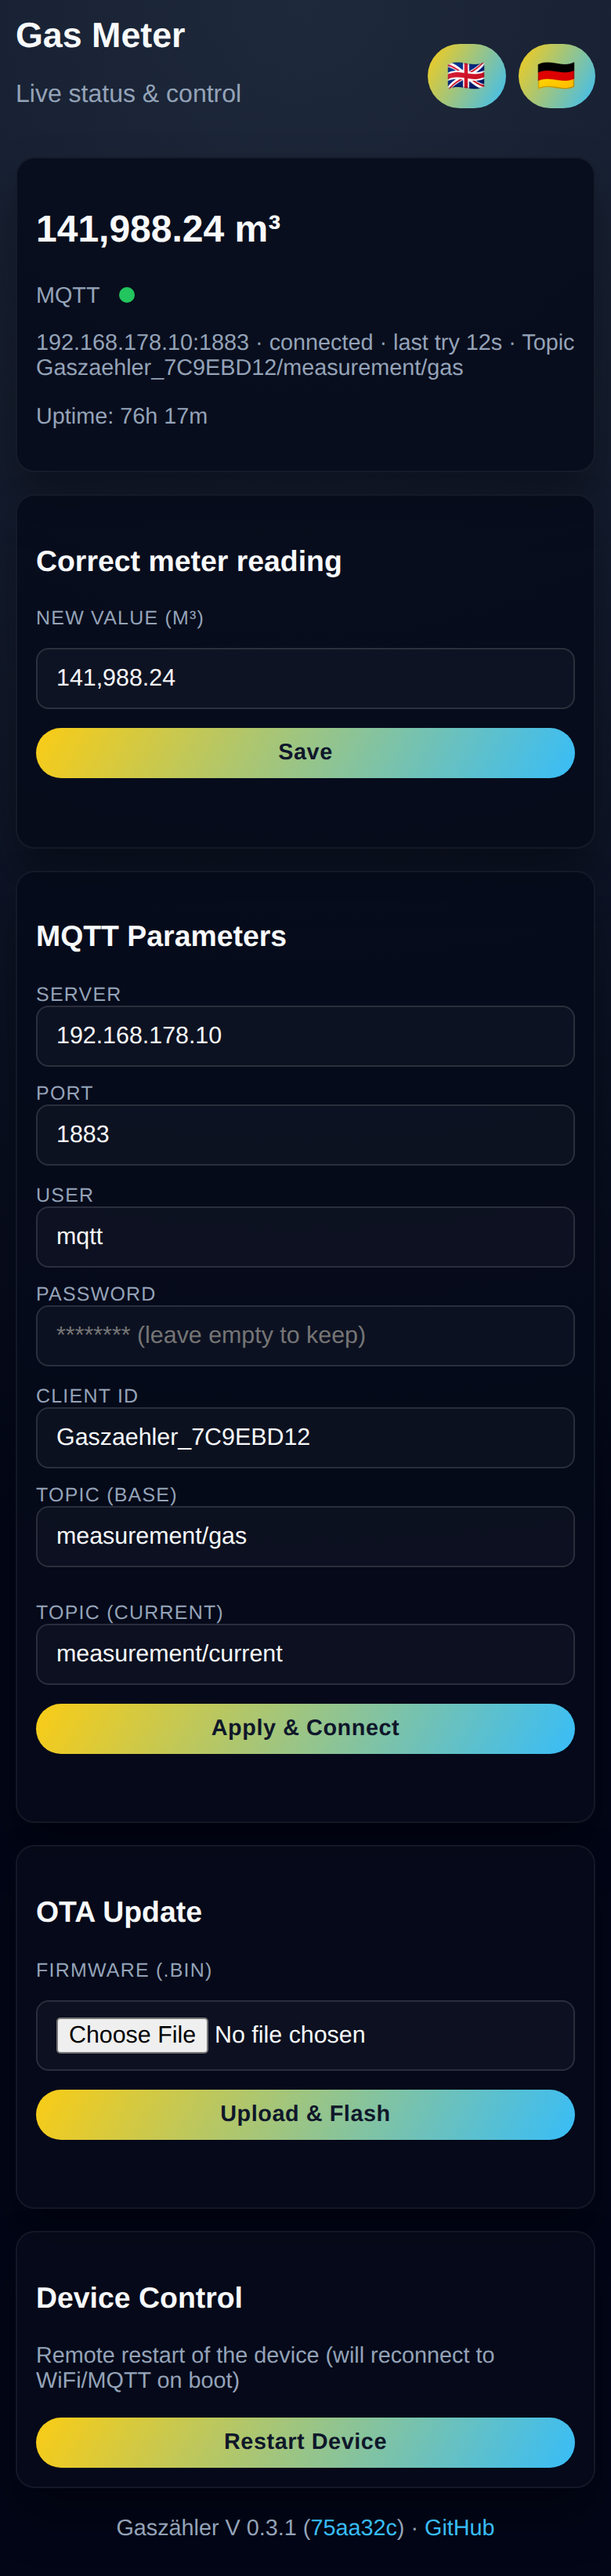
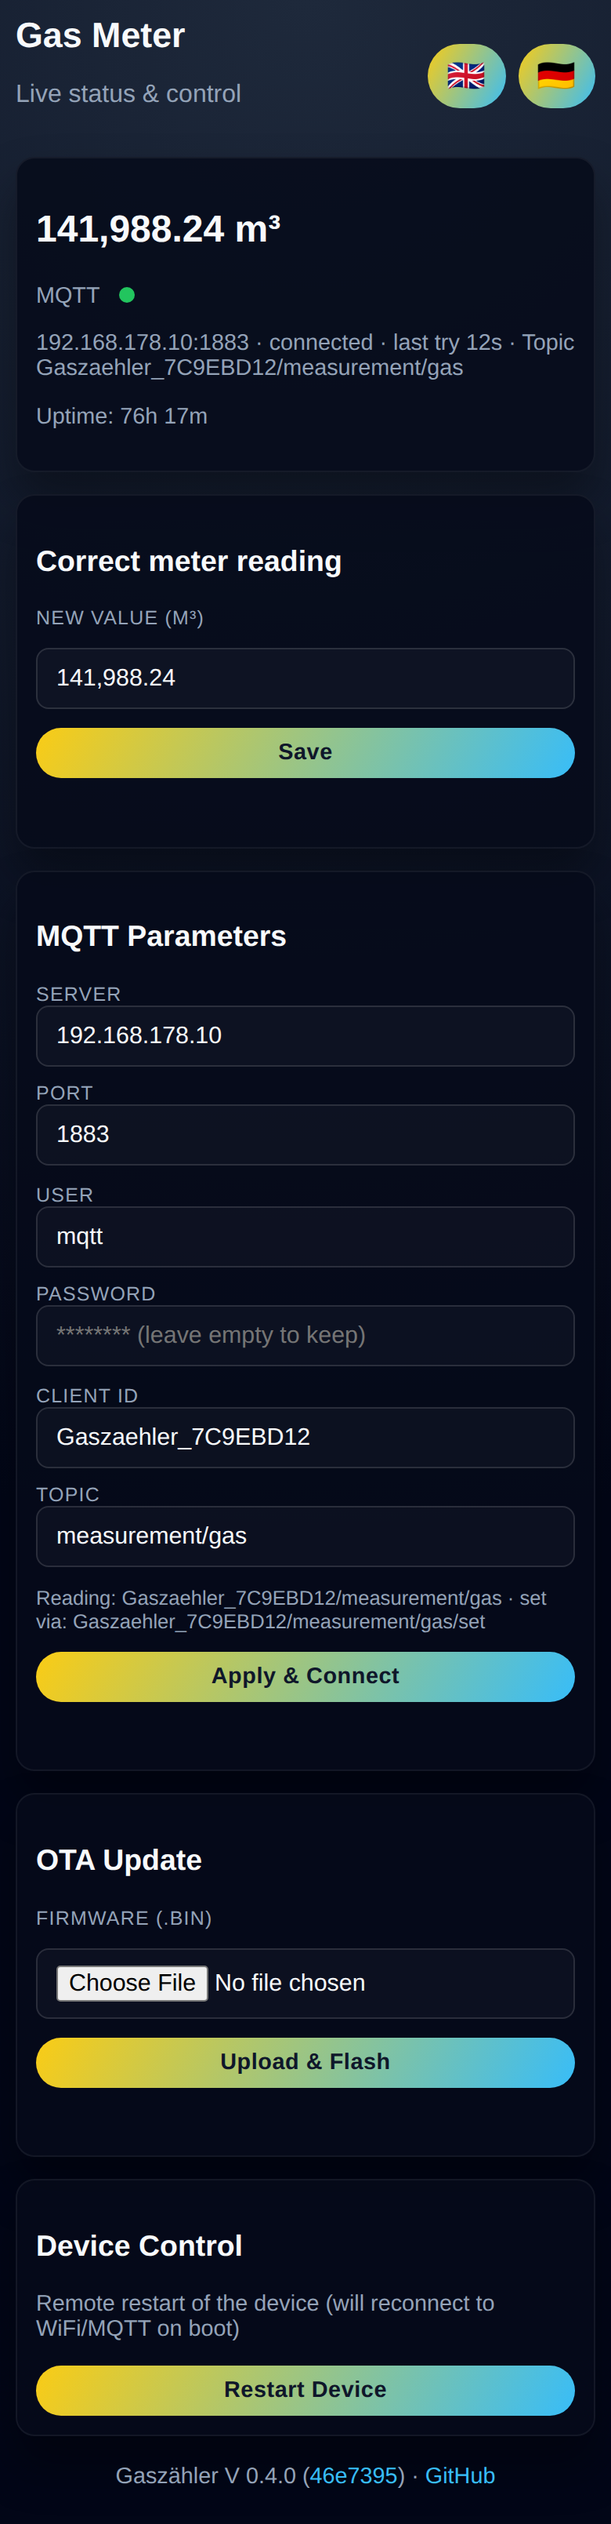
Consistent MQTT topics: reading on <id>/<topic>, set via <id>/<topic>/set
- the set topic is derived from the reading topic; the separate 'topic (current)'
  setting is removed from settings, web UI and API
- HA number entity uses the new set topic via discovery
- changing client ID or topic deletes the retained messages of the old topics
- version 0.4.0 (breaking for manual publishers to the old correction topic)

diff --git a/web/index.html b/web/index.html
@@ -52,6 +52,7 @@ main {
 }
 .status-dot.online { background:#22c55e; }
 .muted { color:var(--muted); font-size:0.9rem; }
+.topic-hint { margin:0; font-size:0.8rem; overflow-wrap:anywhere; }
 footer { text-align:center; padding:4px 0 12px; }
 footer a { color:var(--accent-2); text-decoration:none; }
 footer a:hover { text-decoration:underline; }
@@ -166,17 +167,11 @@ input, select, textarea { width: 100%; box-sizing: border-box; }
                     <input type="text" id="mqtt-clientid" name="clientid">
                 </div>
                 <div>
-                    <label for="mqtt-topic" id="lbl-topic" data-i18n="topicBase">Topic (base)</label>
-                    <input type="text" id="mqtt-topic" name="topic" placeholder="measurement/gas">
+                    <label for="mqtt-topic" id="lbl-topic" data-i18n="topic">Topic</label>
+                    <input type="text" id="mqtt-topic" name="topic" placeholder="measurement/gas" aria-describedby="topic-hint">
                 </div>
             </div>
-            <div class="grid-two">
-                <div></div>
-                <div>
-                    <label for="mqtt-topic-current" id="lbl-topic-current" data-i18n="topicCurrent">Topic (current)</label>
-                    <input type="text" id="mqtt-topic-current" name="topic_current" placeholder="measurement/current">
-                </div>
-            </div>
+            <p class="muted topic-hint" id="topic-hint"></p>
             <button type="submit" id="btn-apply" data-i18n="apply">Apply & Connect</button>
             <span class="feedback" id="mqtt-feedback"></span>
         </form>
@@ -267,7 +262,8 @@ async function refreshStatus() {
         // Client ID and topic base
         if (document.activeElement !== mqttForm.clientid) mqttForm.clientid.value = data.clientID || '';
         if (document.activeElement !== mqttForm.topic) mqttForm.topic.value = data.mqttTopicBase || '';
-        if (document.activeElement !== mqttForm.topic_current) mqttForm.topic_current.value = data.mqttTopicCurrentBase || '';
+        document.getElementById('topic-hint').textContent = data.mqttTopicGas
+            ? `${t('topicHintState')}: ${data.mqttTopicGas} · ${t('topicHintSet')}: ${data.mqttTopicSet}` : '';
     } catch (error) {
         mqttInfo.textContent = t('statusUnavailable');
     }
@@ -327,8 +323,9 @@ const translations = {
         restart: 'Restart Device',
         user: 'User',
         password: 'Password',
-        topicBase: 'Topic (base)',
-        topicCurrent: 'Topic (current)'
+        topic: 'Topic',
+        topicHintState: 'Reading',
+        topicHintSet: 'set via'
     },
     de: {
         consuming: 'Wird übertragen...',
@@ -363,8 +360,9 @@ const translations = {
         restart: 'Neustart',
         user: 'Benutzer',
         password: 'Passwort',
-        topicBase: 'Topic (Basis)',
-        topicCurrent: 'Topic (Korrektur)'
+        topic: 'Topic',
+        topicHintState: 'Zählerstand',
+        topicHintSet: 'setzen über'
     }
 };
 // Pick saved language or fallback to browser preference
@@ -426,7 +424,6 @@ mqttForm.addEventListener('submit', async (event) => {
         password: mqttForm.password.value,
         clientid: mqttForm.clientid.value,
         topic: mqttForm.topic.value,
-        topic_current: mqttForm.topic_current.value
     });
     try {
         const response = await fetch('/api/mqtt', {

diff --git a/src/mqtt.cpp b/src/mqtt.cpp
@@ -17,7 +17,7 @@ namespace
     char password[sizeof(Settings::mqttPassword)];
     char clientId[sizeof(Settings::clientId)];
     char availabilityTopic[sizeof(Settings::clientId) + 16];
-    char correctionTopic[sizeof(Settings::clientId) + sizeof(Settings::topicCorrection) + 1];
+    char setTopic[sizeof(Settings::clientId) + sizeof(Settings::topicGas) + 5];
 
     String statusText = "never";
     int lastErrorCode = 0;
@@ -57,7 +57,7 @@ namespace
         strlcpy(password, settings.mqttPassword, sizeof(password));
         strlcpy(clientId, settings.clientId, sizeof(clientId));
         snprintf(availabilityTopic, sizeof(availabilityTopic), "%s/availability", settings.clientId);
-        snprintf(correctionTopic, sizeof(correctionTopic), "%s/%s", settings.clientId, settings.topicCorrection);
+        snprintf(setTopic, sizeof(setTopic), "%s/%s/set", settings.clientId, settings.topicGas);
         client.setServer(host, port);
         client.setCredentials(user[0] ? user : nullptr, user[0] && password[0] ? password : nullptr);
         client.setClientId(clientId);
@@ -85,7 +85,7 @@ namespace
     void onMessage(const espMqttClientTypes::MessageProperties &props, const char *t, const uint8_t *payload,
                    size_t len, size_t index, size_t total)
     {
-        if (strcmp(t, correctionTopic) != 0 || index != 0 || len != total)
+        if (strcmp(t, setTopic) != 0 || index != 0 || len != total)
             return;
         // Empty payload: our own cleanup of a retained correction (see handleCorrection)
         if (total == 0)
@@ -123,11 +123,11 @@ namespace
         sensor["availability_topic"] = availability;
         sensor["device"] = device;
 
-        // Number: lets Home Assistant set the meter reading via the correction topic
+        // Number: lets Home Assistant set the meter reading via the set topic
         JsonDocument number;
         number["name"] = String(settings.clientId) + " Set Meter Reading";
         number["unique_id"] = String(settings.clientId) + "_meter_set";
-        number["command_topic"] = topic(settings.topicCorrection);
+        number["command_topic"] = stateTopic + "/set";
         number["state_topic"] = stateTopic;
         number["unit_of_measurement"] = "m³";
         number["device_class"] = "gas";
@@ -183,7 +183,7 @@ namespace
             }
         }
         // Remove a retained copy from the broker, so it is not replayed again
-        publish(String(correctionTopic), "", true);
+        publish(String(setTopic), "", true);
     }
 }
 
@@ -222,7 +222,7 @@ namespace mqtt
             lastErrorCode = 0;
             Serial.printf("MQTT: connected to %s\n", host);
             publish(String(availabilityTopic), "online", true);
-            client.subscribe(correctionTopic, 1);
+            client.subscribe(setTopic, 1);
             publishDiscovery();
             publishState();
             // Remove the retained "<topic>/state" of firmware 0.0.2 - 0.3.0
@@ -267,12 +267,20 @@ namespace mqtt
         publish(topic(settings.topicGas), value, true);
     }
 
-    void reconfigure(const char *oldClientId)
+    void reconfigure(const Settings &old)
     {
         if (client.connected())
         {
-            if (strcmp(oldClientId, settings.clientId) != 0)
-                clearDiscovery(oldClientId);
+            bool idChanged = strcmp(old.clientId, settings.clientId) != 0;
+            if (idChanged || strcmp(old.topicGas, settings.topicGas) != 0)
+            {
+                // the retained meter reading would otherwise stay on the old topic forever
+                String oldTopic = String(old.clientId) + "/" + old.topicGas;
+                publish(oldTopic, "", true);
+                publish(oldTopic + "/set", "", true);
+            }
+            if (idChanged)
+                clearDiscovery(old.clientId);
             else
                 publish(String(availabilityTopic), "offline", true);
             client.disconnect(); // graceful: queued messages are sent first

diff --git a/src/web.cpp b/src/web.cpp
@@ -107,9 +107,8 @@ namespace
         doc["projectUrl"] = PROJECT_URL;
         doc["clientID"] = settings.clientId;
         doc["mqttTopicGas"] = String(settings.clientId) + "/" + settings.topicGas;
-        doc["mqttTopicCurrent"] = String(settings.clientId) + "/" + settings.topicCorrection;
+        doc["mqttTopicSet"] = String(settings.clientId) + "/" + settings.topicGas + "/set";
         doc["mqttTopicBase"] = settings.topicGas;
-        doc["mqttTopicCurrentBase"] = settings.topicCorrection;
         doc["offset"] = offset;
         doc["pulseCount"] = pulses;
         doc["mqttLastStatus"] = mqtt::status();
@@ -153,12 +152,10 @@ namespace
         String passArg = server.arg("password");
         String clientIdArg = server.arg("clientid");
         String topicArg = server.arg("topic");
-        String correctionArg = server.arg("topic_current");
         serverArg.trim();
         portArg.trim();
         clientIdArg.trim();
         topicArg.trim();
-        correctionArg.trim();
 
         Settings s = settings;
         if (serverArg.isEmpty() || serverArg.length() >= sizeof(s.mqttServer))
@@ -169,8 +166,7 @@ namespace
             return sendError(400, "username or password too long");
         if (clientIdArg.length() && (clientIdArg.indexOf('/') >= 0 || !isValidTopic(clientIdArg.c_str(), sizeof(s.clientId))))
             return sendError(400, "invalid client ID");
-        if ((topicArg.length() && !isValidTopic(topicArg.c_str(), sizeof(s.topicGas))) ||
-            (correctionArg.length() && !isValidTopic(correctionArg.c_str(), sizeof(s.topicCorrection))))
+        if (topicArg.length() && !isValidTopic(topicArg.c_str(), sizeof(s.topicGas)))
             return sendError(400, "invalid topic (no + or #, no empty levels)");
 
         strlcpy(s.mqttServer, serverArg.c_str(), sizeof(s.mqttServer));
@@ -184,13 +180,10 @@ namespace
             strlcpy(s.clientId, clientIdArg.c_str(), sizeof(s.clientId));
         if (topicArg.length())
             strlcpy(s.topicGas, topicArg.c_str(), sizeof(s.topicGas));
-        if (correctionArg.length())
-            strlcpy(s.topicCorrection, correctionArg.c_str(), sizeof(s.topicCorrection));
 
-        char oldClientId[sizeof(Settings::clientId)];
-        strlcpy(oldClientId, settings.clientId, sizeof(oldClientId));
+        Settings old = settings;
         settings = s;
-        app::settingsChanged(oldClientId);
+        app::settingsChanged(old);
 
         // The connection is established asynchronously; the dashboard polls /api/status
         JsonDocument doc;
@@ -201,7 +194,6 @@ namespace
         doc["mqttLastStatus"] = "connecting";
         doc["clientID"] = settings.clientId;
         doc["mqttTopicBase"] = settings.topicGas;
-        doc["mqttTopicCurrentBase"] = settings.topicCorrection;
         sendJson(200, doc);
     }
 

diff --git a/src/settings.cpp b/src/settings.cpp
@@ -63,7 +63,7 @@ bool operator==(const Settings &a, const Settings &b)
     return strcmp(a.mqttServer, b.mqttServer) == 0 && strcmp(a.mqttPort, b.mqttPort) == 0 &&
            strcmp(a.mqttUser, b.mqttUser) == 0 && strcmp(a.mqttPassword, b.mqttPassword) == 0 &&
            strcmp(a.clientId, b.clientId) == 0 && strcmp(a.topicGas, b.topicGas) == 0 &&
-           strcmp(a.topicCorrection, b.topicCorrection) == 0 && strcmp(a.webPassword, b.webPassword) == 0;
+           strcmp(a.webPassword, b.webPassword) == 0;
 }
 
 namespace storage
@@ -115,7 +115,7 @@ namespace storage
         copyIfPresent(doc["mqtt_password"], s.mqttPassword, sizeof(s.mqttPassword), true);
         copyIfPresent(doc["mqtt_clientid"], s.clientId, sizeof(s.clientId), false);
         copyIfPresent(doc["mqtt_topic_gas"], s.topicGas, sizeof(s.topicGas), false);
-        copyIfPresent(doc["mqtt_topic_current"], s.topicCorrection, sizeof(s.topicCorrection), false);
+        // "mqtt_topic_current" of firmware <= 0.3.1 is ignored: the set topic is now <topic>/set
         copyIfPresent(doc["web_password"], s.webPassword, sizeof(s.webPassword), true);
 
         Serial.printf("Storage: loaded pulses=%lu offset=%lu server=%s:%s user=%s password=%s\n",
@@ -135,7 +135,6 @@ namespace storage
         doc["mqtt_password"] = s.mqttPassword;
         doc["mqtt_clientid"] = s.clientId;
         doc["mqtt_topic_gas"] = s.topicGas;
-        doc["mqtt_topic_current"] = s.topicCorrection;
         doc["web_password"] = s.webPassword;
         String payload;
         serializeJson(doc, payload);

diff --git a/src/portal.cpp b/src/portal.cpp
@@ -21,8 +21,7 @@ namespace
 
     void onSaveParams()
     {
-        char oldClientId[sizeof(Settings::clientId)];
-        strlcpy(oldClientId, settings.clientId, sizeof(oldClientId));
+        Settings old = settings;
         strlcpy(settings.mqttServer, paramServer.getValue(), sizeof(settings.mqttServer));
         if (parsePort(paramPort.getValue()) != 0)
             strlcpy(settings.mqttPort, paramPort.getValue(), sizeof(settings.mqttPort));
@@ -33,7 +32,7 @@ namespace
         if (paramWebPassword.getValue()[0])
             strlcpy(settings.webPassword, paramWebPassword.getValue(), sizeof(settings.webPassword));
         Serial.printf("Portal: MQTT %s:%s (user: %s)\n", settings.mqttServer, settings.mqttPort, settings.mqttUser);
-        app::settingsChanged(oldClientId);
+        app::settingsChanged(old);
     }
 }
 

diff --git a/include/mqtt.h b/include/mqtt.h
@@ -3,6 +3,8 @@
 #pragma once
 #include <stdint.h>
 
+struct Settings;
+
 namespace mqtt
 {
     void begin();
@@ -10,8 +12,8 @@ namespace mqtt
     void loop(bool wifiConnected);
 
     void publishState();
-    // Settings changed: cleans up the old client ID in Home Assistant if needed and reconnects
-    void reconfigure(const char *oldClientId);
+    // Settings changed: removes retained messages of the old client ID/topic and reconnects
+    void reconfigure(const Settings &old);
     // Publishes "offline" and disconnects gracefully (waits up to timeoutMs)
     void shutdown(uint32_t timeoutMs);
 

diff --git a/include/app.h b/include/app.h
@@ -1,12 +1,14 @@
 // Actions that involve several modules, implemented in main.cpp
 #pragma once
 
+struct Settings;
+
 namespace app
 {
     // The meter reading was corrected: save, publish, refresh display
     void meterChanged();
     // Settings were changed (web UI or config portal): save and reconnect MQTT
-    void settingsChanged(const char *oldClientId);
+    void settingsChanged(const Settings &old);
     // Saves settings and meter state if something changed
     void save();
     // Saves, announces offline via MQTT and restarts

diff --git a/include/settings.h b/include/settings.h
@@ -9,8 +9,8 @@ struct Settings
     char mqttUser[40] = "";
     char mqttPassword[40] = "";
     char clientId[64] = "";
+    // Meter reading on <clientId>/<topicGas> (retained), set it via <clientId>/<topicGas>/set
     char topicGas[64] = "measurement/gas";
-    char topicCorrection[64] = "measurement/current";
     char webPassword[40] = ""; // empty = web UI without login
 };
 

diff --git a/include/config.h b/include/config.h
@@ -2,7 +2,7 @@
 #pragma once
 #include <stdint.h>
 
-constexpr const char *FIRMWARE_VERSION = "V 0.3.1";
+constexpr const char *FIRMWARE_VERSION = "V 0.4.0";
 // "V 0.3.1 (abc1234)", "*" marks a build with uncommitted changes
 const char *firmwareVersionLong();
 constexpr const char *PROJECT_URL = "https://github.com/HeikoGr/Gaszaehler";

diff --git a/tools/screenshots/render_lcd.cpp b/tools/screenshots/render_lcd.cpp
@@ -21,7 +21,7 @@ static UiState baseState()
     s.mqttPort = "1883";
     s.clientId = "Gaszaehler_7C9EBD12";
     s.mqttStatus = "connected";
-    s.version = "V 0.3.1 (75aa32c)";
+    s.version = "V 0.4.0 (46e7395)";
     s.uptimeSeconds = 3 * 86400 + 4 * 3600 + 17 * 60;
     s.pulseCount = 1834;
     s.editValue = 14198824;

diff --git a/src/main.cpp b/src/main.cpp
@@ -44,10 +44,10 @@ namespace app
         display::requestUpdate();
     }
 
-    void settingsChanged(const char *oldClientId)
+    void settingsChanged(const Settings &old)
     {
         save();
-        mqtt::reconfigure(oldClientId);
+        mqtt::reconfigure(old);
         display::requestUpdate();
     }
 

diff --git a/README.MD b/README.MD
@@ -7,6 +7,10 @@ An ESP32 TTGO T-Display reads a reed switch on a diaphragm gas meter (e.g., BK-G
 3D-printed enclosure by 3dFabrik: [Thingiverse](https://www.thingiverse.com/thing:5594161)
 
 ## Changelog
+- **V 0.4.0** ⚠ MQTT topic change
+  - Setting the meter reading via MQTT now uses `<clientID>/<mqtt_topic_gas>/set` (default `…/measurement/gas/set`) instead of the separately configured `<clientID>/measurement/current`. Home Assistant is switched over automatically via discovery; automations or scripts that publish to the old topic must be changed.
+  - The "Topic (current)" setting is removed; the set topic always follows the reading topic
+  - Changing the client ID or topic removes the retained messages of the old topics from the broker
 - **V 0.3.1**
   - MQTT: only one topic for the meter reading, `<clientID>/<mqtt_topic_gas>` (retained); the duplicate `…/state` topic is removed (its retained message is deleted on connect, Home Assistant is switched over via discovery, the entity and its history are kept)
   - Firmware version with git commit in the web UI footer (linked to GitHub), on the TFT and in Home Assistant
@@ -100,7 +104,7 @@ The upper button (next to the top-right corner) cycles through the pages, the lo
 - Status card with MQTT state, uptime, current volume
 - Footer with firmware version, git commit and link to this repository
 - Adjust meter value
-- MQTT settings (server/port/user/pass, clientID, topics), restart button, OTA upload
+- MQTT settings (server/port/user/pass, client ID, topic), restart button, OTA upload
 - Language toggle EN/DE; default follows browser language
 
 <img src="img/web-mobile-en.png" width="320" alt="Web UI">
@@ -110,31 +114,31 @@ All `POST` endpoints require the header `X-Requested-With: gaszaehler` (CSRF pro
 
 - `GET /api/status` → JSON with MQTT/Wi-Fi state, topics, uptime, masked password, client ID, current reading, flow, firmware version and commit.
 - `POST /api/consumption` with `value` (m3, e.g. `12345.67` or `12345,67`, max `999999.99`) → sets meter value and saves.
-- `POST /api/mqtt` with `server, port, username, password, clientid, topic, topic_current` → saves the settings, reconnects, republishes discovery. An empty `password` keeps the stored one (unless `username` is empty, then it is cleared).
+- `POST /api/mqtt` with `server, port, username, password, clientid, topic` → saves the settings, reconnects, republishes discovery. An empty `password` keeps the stored one (unless `username` is empty, then it is cleared).
 - `POST /api/restart` → replies then restarts the ESP32.
 - `POST /update` multipart form (field `firmware`) → OTA flash; device restarts on success.
 
 ### MQTT topics
 All values in m³ with two decimals (e.g. `141988.24`), published every 60 s and right after every correction.
 - Meter reading (retained): `<clientID>/<mqtt_topic_gas>` (default `measurement/gas`, e.g. `Gaszaehler_ABC/measurement/gas`). Retained, so Home Assistant has the value right after its own restart.
-- Correction (command) topic, subscribed: `<clientID>/<mqtt_topic_current>` (default `measurement/current`)
+- Set the meter reading (subscribed): `<clientID>/<mqtt_topic_gas>/set`, e.g. `Gaszaehler_ABC/measurement/gas/set`
 - Availability (retained): `<clientID>/availability` with `online`/`offline`
 
 ### Home Assistant
 - Discovery retained topics:
   - `homeassistant/sensor/<clientID>_gas_volume/config` (total, `device_class: gas`, `state_class: total_increasing`)
-  - `homeassistant/number/<clientID>_meter_set/config` (number entity to set the meter reading; writes to `<clientID>/<mqtt_topic_current>`, shows the current total)
+  - `homeassistant/number/<clientID>_meter_set/config` (number entity to set the meter reading; writes to `<clientID>/<mqtt_topic_gas>/set`, shows the current total)
 - State topic in discovery points to `<clientID>/<mqtt_topic_gas>`
 - Availability wired to `<clientID>/availability`
 
 ### Edit meter value
 - Via Home Assistant: the number entity "Set Meter Reading".
-- Via MQTT: publish the new value in m³ (e.g. `12345.67`) to `<clientID>/<mqtt_topic_current>`. Invalid values are ignored. A retained message is applied once when it arrives live, but ignored when the broker replays it after a reconnect; the device then deletes it from the broker.
+- Via MQTT: publish the new value in m³ (e.g. `12345.67`) to `<clientID>/<mqtt_topic_gas>/set`. Invalid values are ignored. A retained message is applied once when it arrives live, but ignored when the broker replays it after a reconnect; the device then deletes it from the broker.
 - Via web UI: card "Correct meter reading".
 - Via display: Device page → lower button, set the digits, then select "Save" (or "Cancel").
 
 ### Persistence
-- LittleFS (`/data.json`): pulse counter, offset, MQTT server/port/user/password, client ID, topics, web UI password. Written atomically (temporary file + rename).
+- LittleFS (`/data.json`): pulse counter, offset, MQTT server/port/user/password, client ID, topic, web UI password. Written atomically (temporary file + rename).
 - Wi-Fi credentials are stored by WiFiManager in the ESP32's NVS
 - Saved every 10 minutes (only if something changed), before restart/OTA, after configuration changes and via the "save" button on the gas page
 
